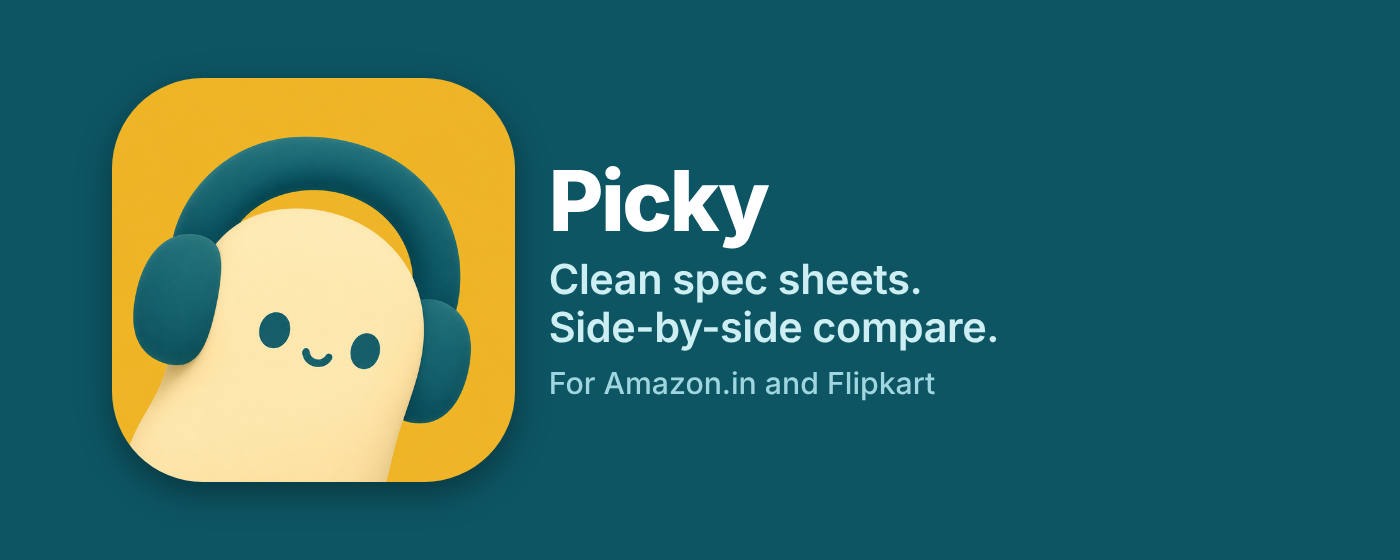
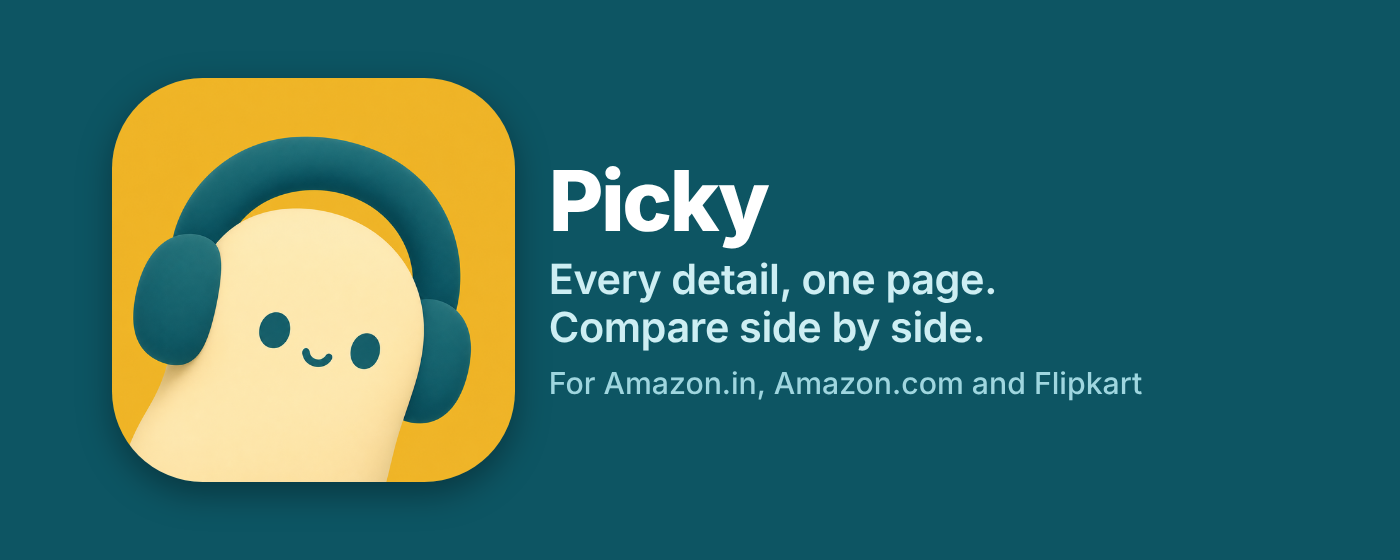
chore(extension): regenerate the store promo tiles with the new tagline
Re-render promo-small-440x280.png and promo-marquee-1400x560.png from
promo.html ("Every detail, one page. Compare side by side."). On the
small tile the longer tagline wrapped mid-phrase, so it gets a slightly
smaller mascot and keeps each sentence on one line.

Claude-Session: https://claude.ai/code/session_016ngYKzpxtJX5ZsQ8U44RUF

Changed region(s): [[0.3686, 0.4554, 0.7064, 0.6375], [0.5529, 0.6679, 0.8293, 0.7286]]

diff --git a/apps/extension/store/promo.html b/apps/extension/store/promo.html
@@ -12,11 +12,11 @@
       .name { font-size: 15vh; font-weight: 800; letter-spacing: -0.03em; line-height: 1; }
       .line { font-size: 7.4vh; font-weight: 600; line-height: 1.15; letter-spacing: -0.01em; color: #cdeef3; }
       .stores { font-size: 5.4vh; font-weight: 500; color: #9fd6df; }
-      /* The small tile is tight: a smaller mascot, the tagline only. */
+      /* The small tile is tight: a smaller mascot, the tagline only, each tagline sentence on one line. */
       @media (max-width: 600px) {
-        .tile { gap: 6vw; padding: 0 7vw; }
-        .mascot { height: 60vh; }
-        .line { font-size: 6.6vh; }
+        .tile { gap: 5vw; padding: 0 6vw; }
+        .mascot { height: 54vh; }
+        .line { font-size: 6.2vh; white-space: nowrap; }
         .stores { display: none; }
       }
     </style>
